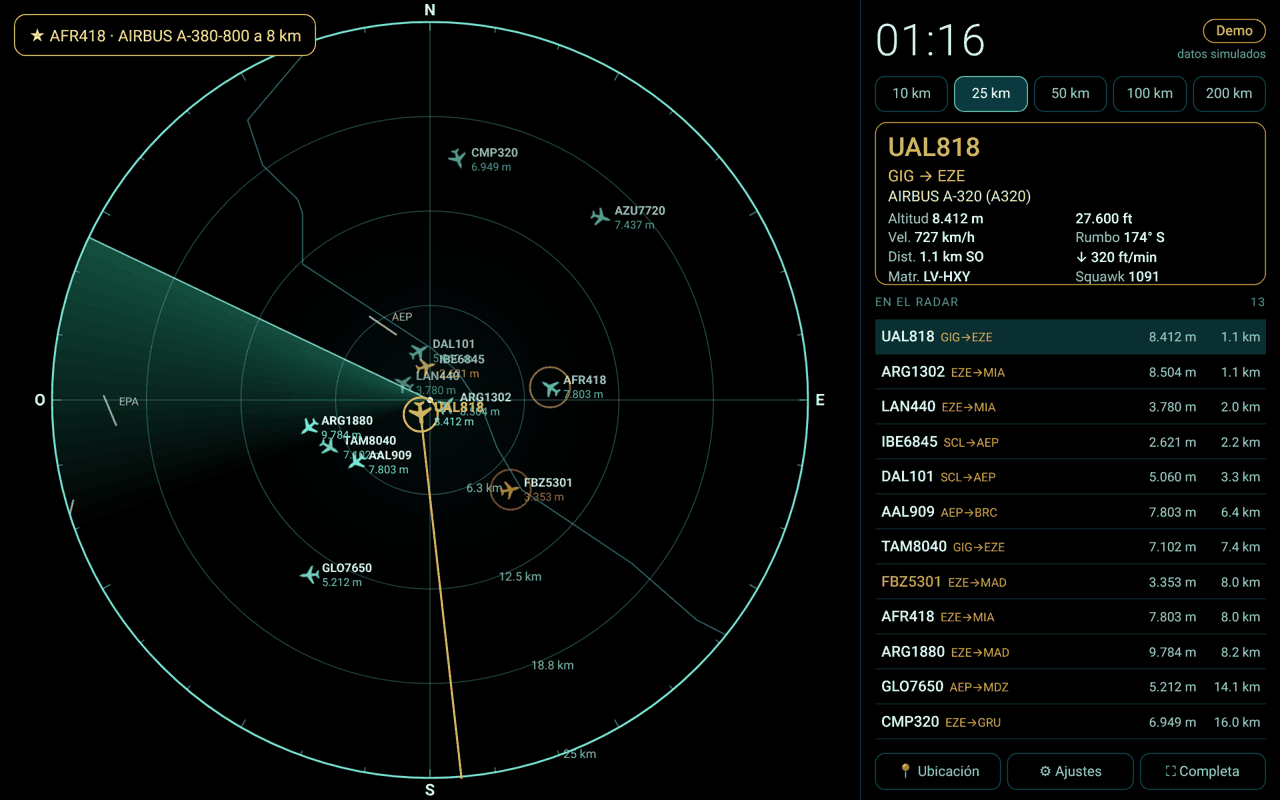
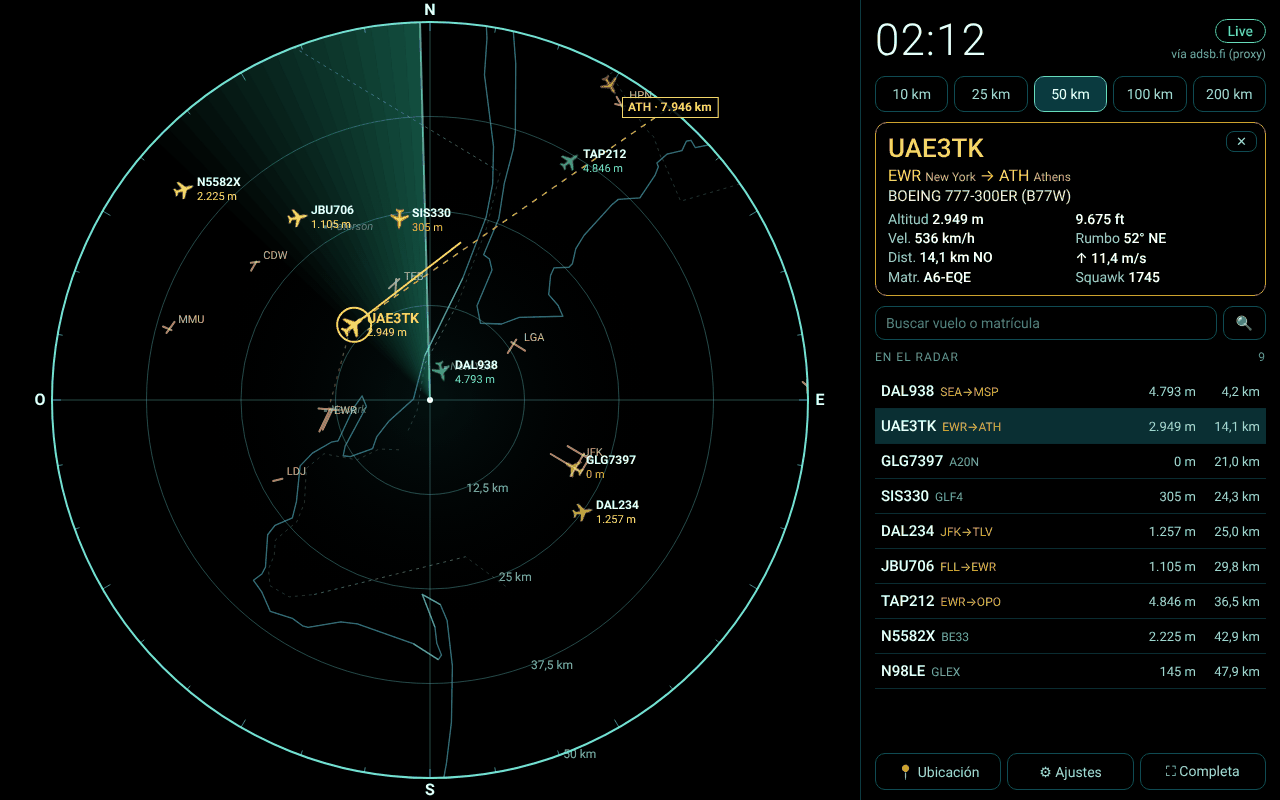
Capturas con datos reales y vista previa para redes
- docs/: capturas nuevas con vuelos reales (Nueva York y Buenos Aires)
- og.png + meta og/twitter para la tarjeta al compartir el link
- Altitud barométrica negativa se muestra como 0

Claude-Session: https://claude.ai/code/session_01BpATQrC1isxWHcwWrpC6Cx

diff --git a/index.html b/index.html
@@ -6,6 +6,19 @@
 <meta name="theme-color" content="#000000">
 <meta name="mobile-web-app-capable" content="yes">
 <title>Radar de vuelos</title>
+<meta name="description" content="Radar de vuelos en vivo con datos ADS-B: rutas, seguimiento, alertas y mapa de cualquier lugar del mundo. Pensado para tablets y pantallas redondas.">
+<!-- Vista previa al compartir el link (Twitter/X, WhatsApp, etc.) -->
+<meta property="og:type" content="website">
+<meta property="og:url" content="https://radar-vuelos-sigma.vercel.app/">
+<meta property="og:title" content="Radar de vuelos en vivo">
+<meta property="og:description" content="Aviones en tiempo real con su ruta, seguimiento y alertas, sobre un mapa de cualquier lugar del mundo.">
+<meta property="og:image" content="https://radar-vuelos-sigma.vercel.app/og.png">
+<meta property="og:image:width" content="1200">
+<meta property="og:image:height" content="630">
+<meta name="twitter:card" content="summary_large_image">
+<meta name="twitter:title" content="Radar de vuelos en vivo">
+<meta name="twitter:description" content="Aviones en tiempo real con su ruta, seguimiento y alertas, sobre un mapa de cualquier lugar del mundo.">
+<meta name="twitter:image" content="https://radar-vuelos-sigma.vercel.app/og.png">
 <link rel="manifest" href="manifest.webmanifest">
 <link rel="icon" href="icono-192.png">
 <link rel="stylesheet" href="estilo.css">

diff --git a/app.js b/app.js
@@ -198,6 +198,7 @@
   function altTexto(d) {
     if (d.gnd) return T('enTierra');
     if (d.alt == null) return '—';
+    if (d.alt < 0) return aviacion() ? '0 ft' : '0 m'; // la altitud barométrica puede dar negativa cerca del nivel del mar
     if (aviacion()) return d.alt >= 18000 ? 'FL' + ('00' + Math.round(d.alt / 100)).slice(-3) : fmtNum(d.alt) + ' ft';
     return fmtNum(d.alt * 0.3048) + ' m';
   }

diff --git a/README.md b/README.md
@@ -4,7 +4,7 @@ Radar de aviones en vivo pensado para dejar prendido en una tablet: muestra los 
 
 **App:** https://radar-vuelos-sigma.vercel.app · **Demo con datos simulados:** https://radar-vuelos-sigma.vercel.app/?demo
 
-![Radar de vuelos](docs/captura.png)
+![Radar de vuelos siguiendo un Emirates 777 de Newark a Atenas, con datos reales](docs/captura.png)
 
 ## Qué muestra
 
@@ -33,7 +33,7 @@ Radar de aviones en vivo pensado para dejar prendido en una tablet: muestra los 
 - La primera vez pide la ubicación del dispositivo; si no la dan, arranca en el Obelisco
 - **Se actualiza sola:** cada 5 minutos se fija si hay una versión nueva publicada y recarga la página
 
-| Buenos Aires (100 km) | Nueva York (50 km) |
+| Buenos Aires: GOL 7666 Río → Ezeiza | Nueva York: Emirates Newark → Atenas |
 |---|---|
 | ![Buenos Aires](docs/mapa-buenos-aires.png) | ![Nueva York](docs/mapa-nueva-york.png) |
 
